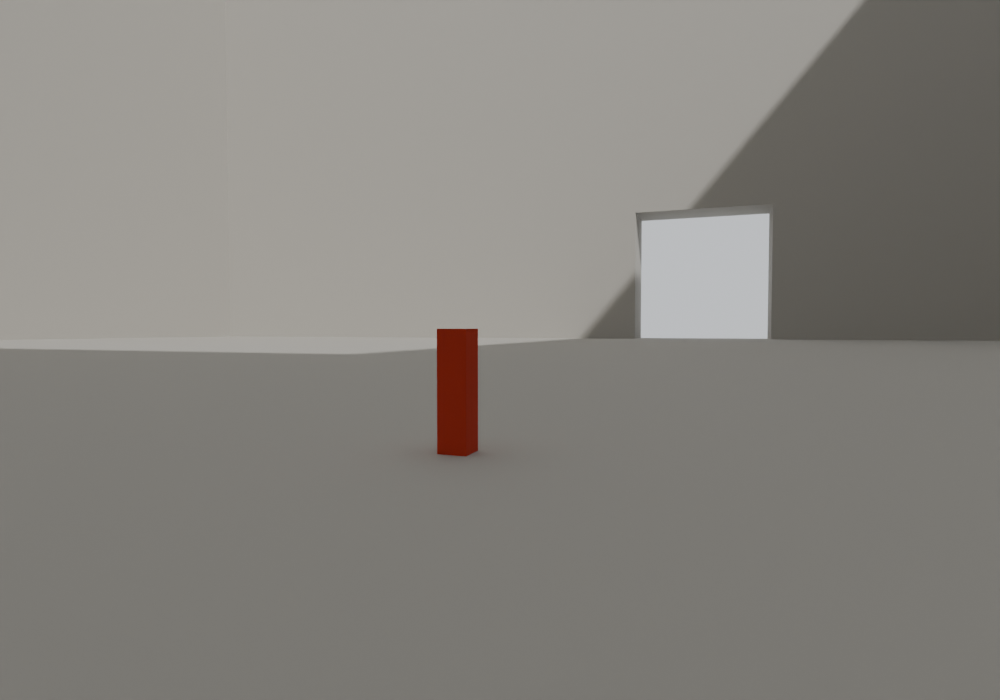
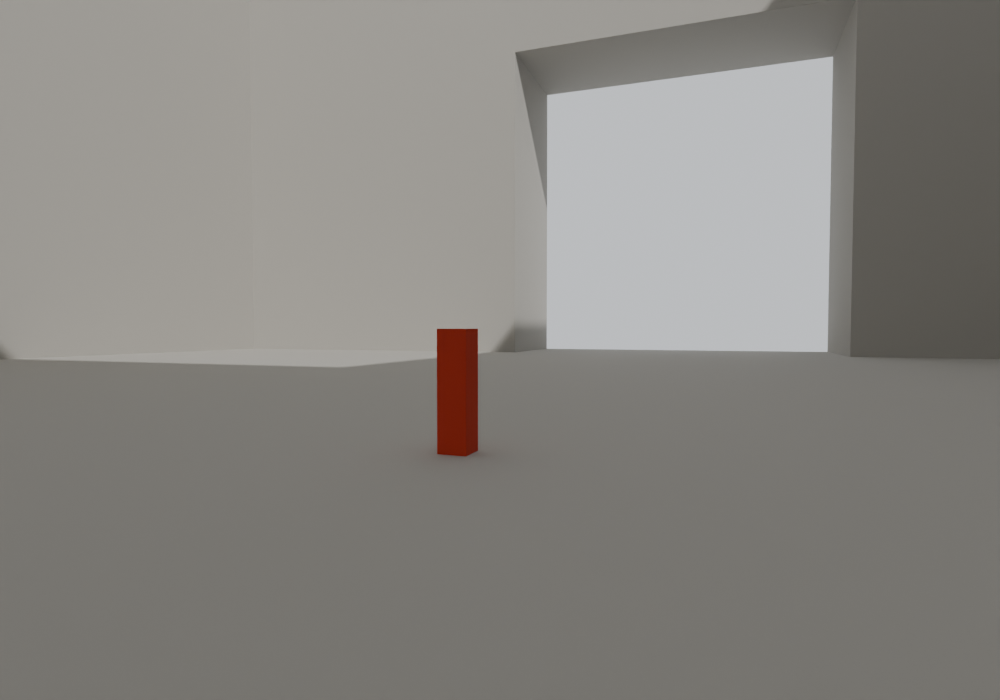
Grande salle 100 x 100 x 75 m
Claude-Session: https://claude.ai/code/session_01SWXPy6War9Jf9BhkNrgaL1

Changed region(s): [[0.465, 0.0, 1.0, 0.54], [0.0, 0.48, 0.434, 0.54]]

diff --git a/Tools/models/grande_salle_blender.py b/Tools/models/grande_salle_blender.py
@@ -1,10 +1,10 @@
-"""Grande salle en .blend : UN seul cube propre (8 sommets, 6 faces) ; le creux et les 2 ouvertures sont des
+"""Grande salle en .blend (100 x 100 m, 75 m de haut) : UN seul cube propre (8 sommets, 6 faces) ; le creux et les 2 ouvertures sont des
 modificateurs Booléens (formes de découpe modifiables, en fil de fer). Bloc d'échelle 0,5 x 0,5 x 2 m au centre.
 Blender (Z vers le haut, mètres). Lancer :  python3.11 avec le module bpy  ->  Assets/Export/grande_salle.blend"""
 import os, sys, math
 import bpy, bmesh
 
-W, H, T = 250.0, 175.0, 10.0          # largeur, hauteur, épaisseur des parois et du sol
+W, H, T = 100.0, 75.0, 10.0          # largeur, hauteur, épaisseur des parois et du sol
 OW, OH = 25.0, 25.0                   # ouvertures : largeur, hauteur
 OUT = os.path.abspath(os.path.join(os.path.dirname(__file__), "..", "..", "Assets", "Export"))
 
@@ -57,7 +57,7 @@ rep.data.materials.append(mat("Repere", (0.70, 0.05, 0.02)))
 sun = bpy.data.objects.new("Soleil", bpy.data.lights.new("Soleil", "SUN")); sun.data.energy = 3
 sun.rotation_euler = (math.radians(50), math.radians(10), math.radians(35)); scn.collection.objects.link(sun)
 cam = bpy.data.objects.new("Camera", bpy.data.cameras.new("Camera")); cam.data.clip_end = 5000; cam.data.lens = 30
-cam.location = (330, -420, 300); scn.collection.objects.link(cam); scn.camera = cam
+cam.location = (135, -170, 125); scn.collection.objects.link(cam); scn.camera = cam
 cam.rotation_euler = (math.radians(62), 0, math.radians(38))
 scn.world = bpy.data.worlds.new("Ciel"); scn.world.color = (0.75, 0.78, 0.82)
 
@@ -81,7 +81,7 @@ for scr in bpy.data.screens:
         for sp in area.spaces:
             if sp.type == "VIEW_3D":
                 sp.clip_end = 5000; sp.clip_start = 0.1
-                r3 = sp.region_3d; r3.view_location = (0, 0, 70); r3.view_distance = 650
+                r3 = sp.region_3d; r3.view_location = (0, 0, 30); r3.view_distance = 260
                 r3.view_rotation = Euler((math.radians(62), 0, math.radians(38))).to_quaternion(); n += 1
 print("vues 3D réglées :", n)
 os.makedirs(OUT, exist_ok=True)
